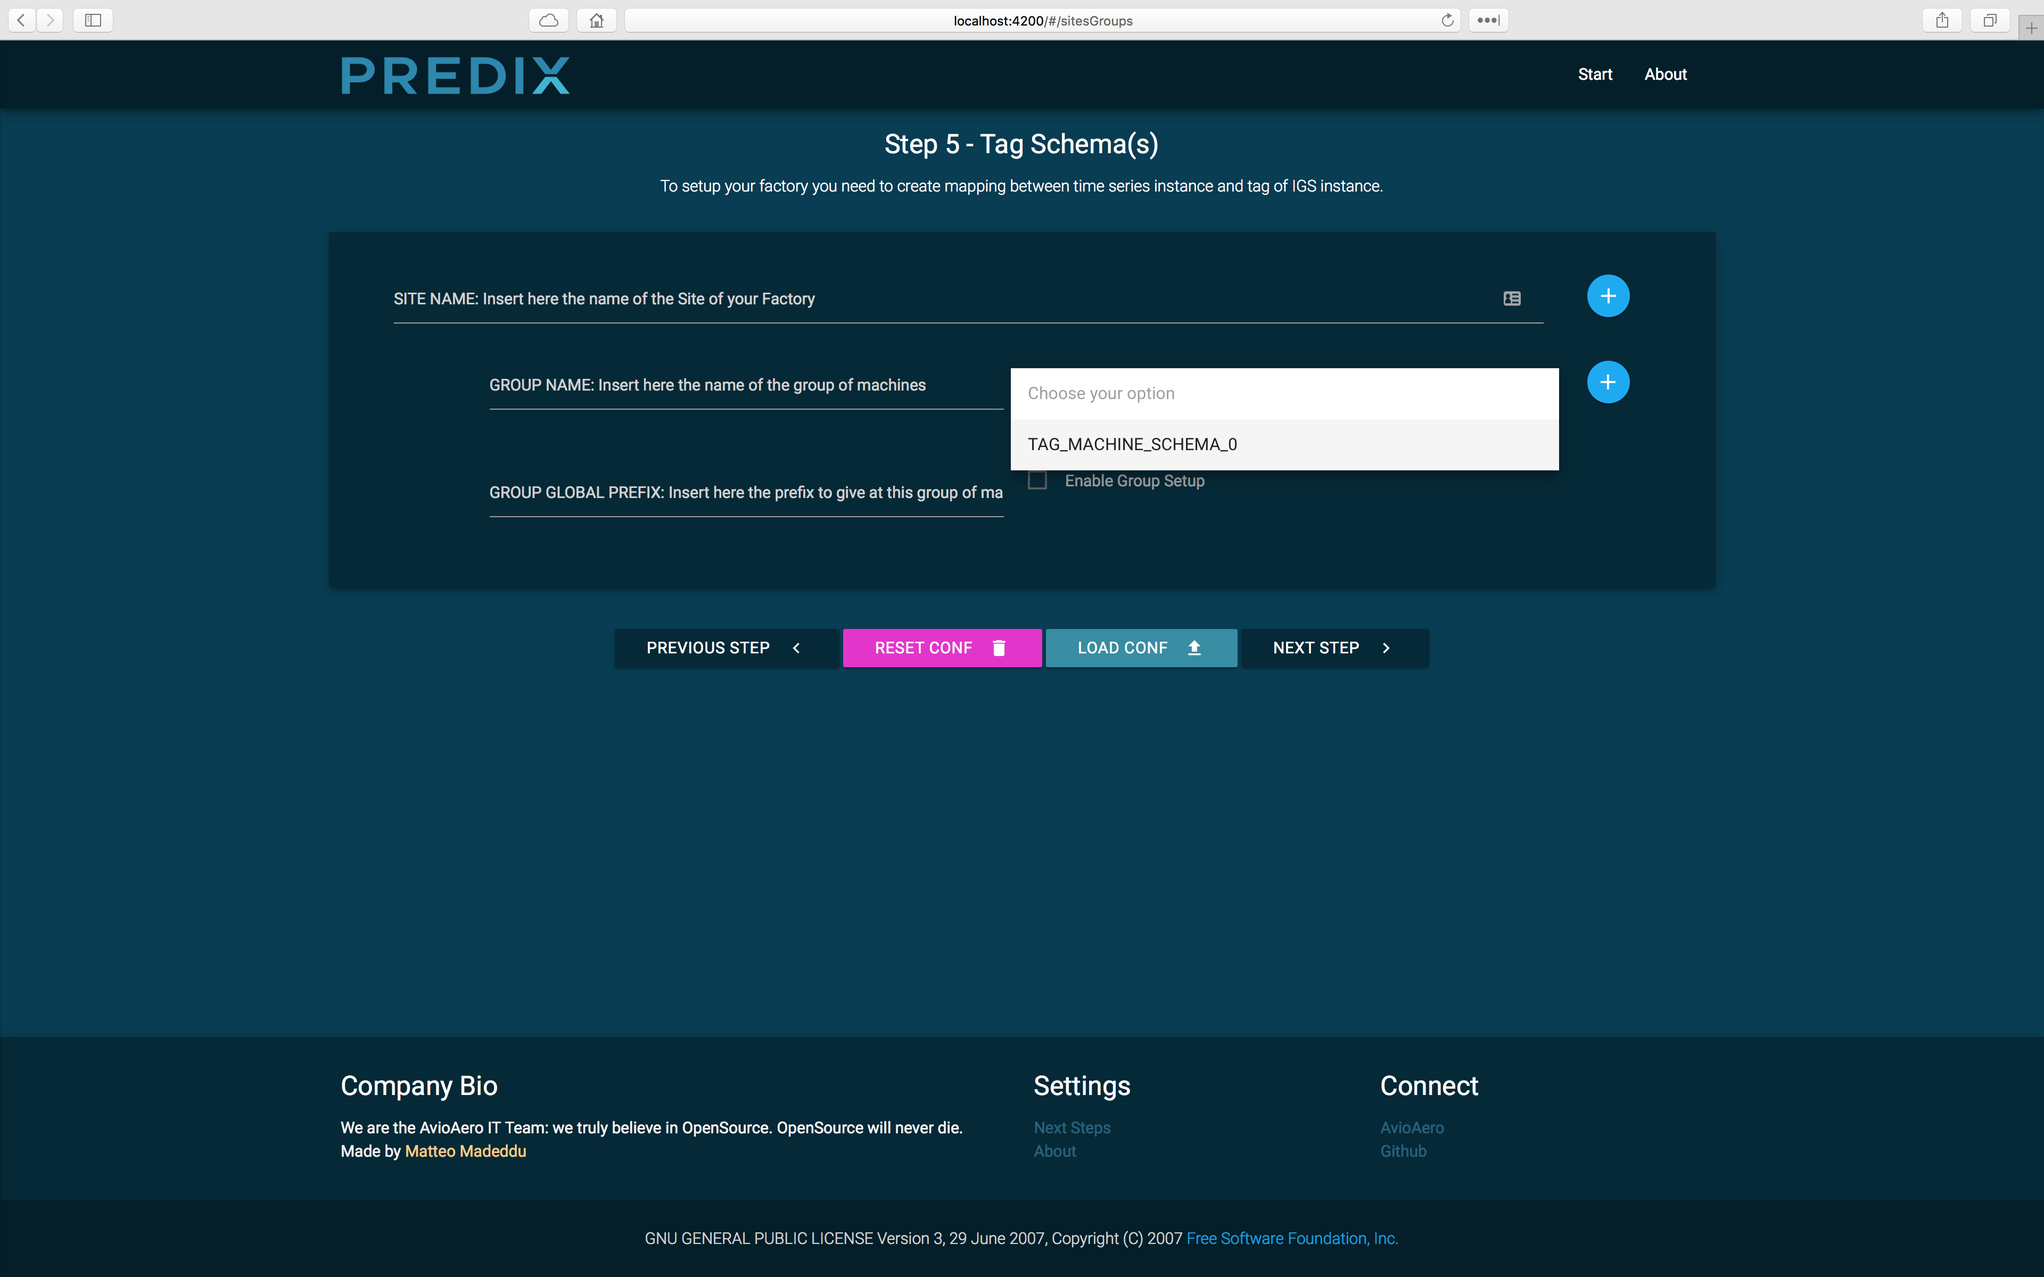
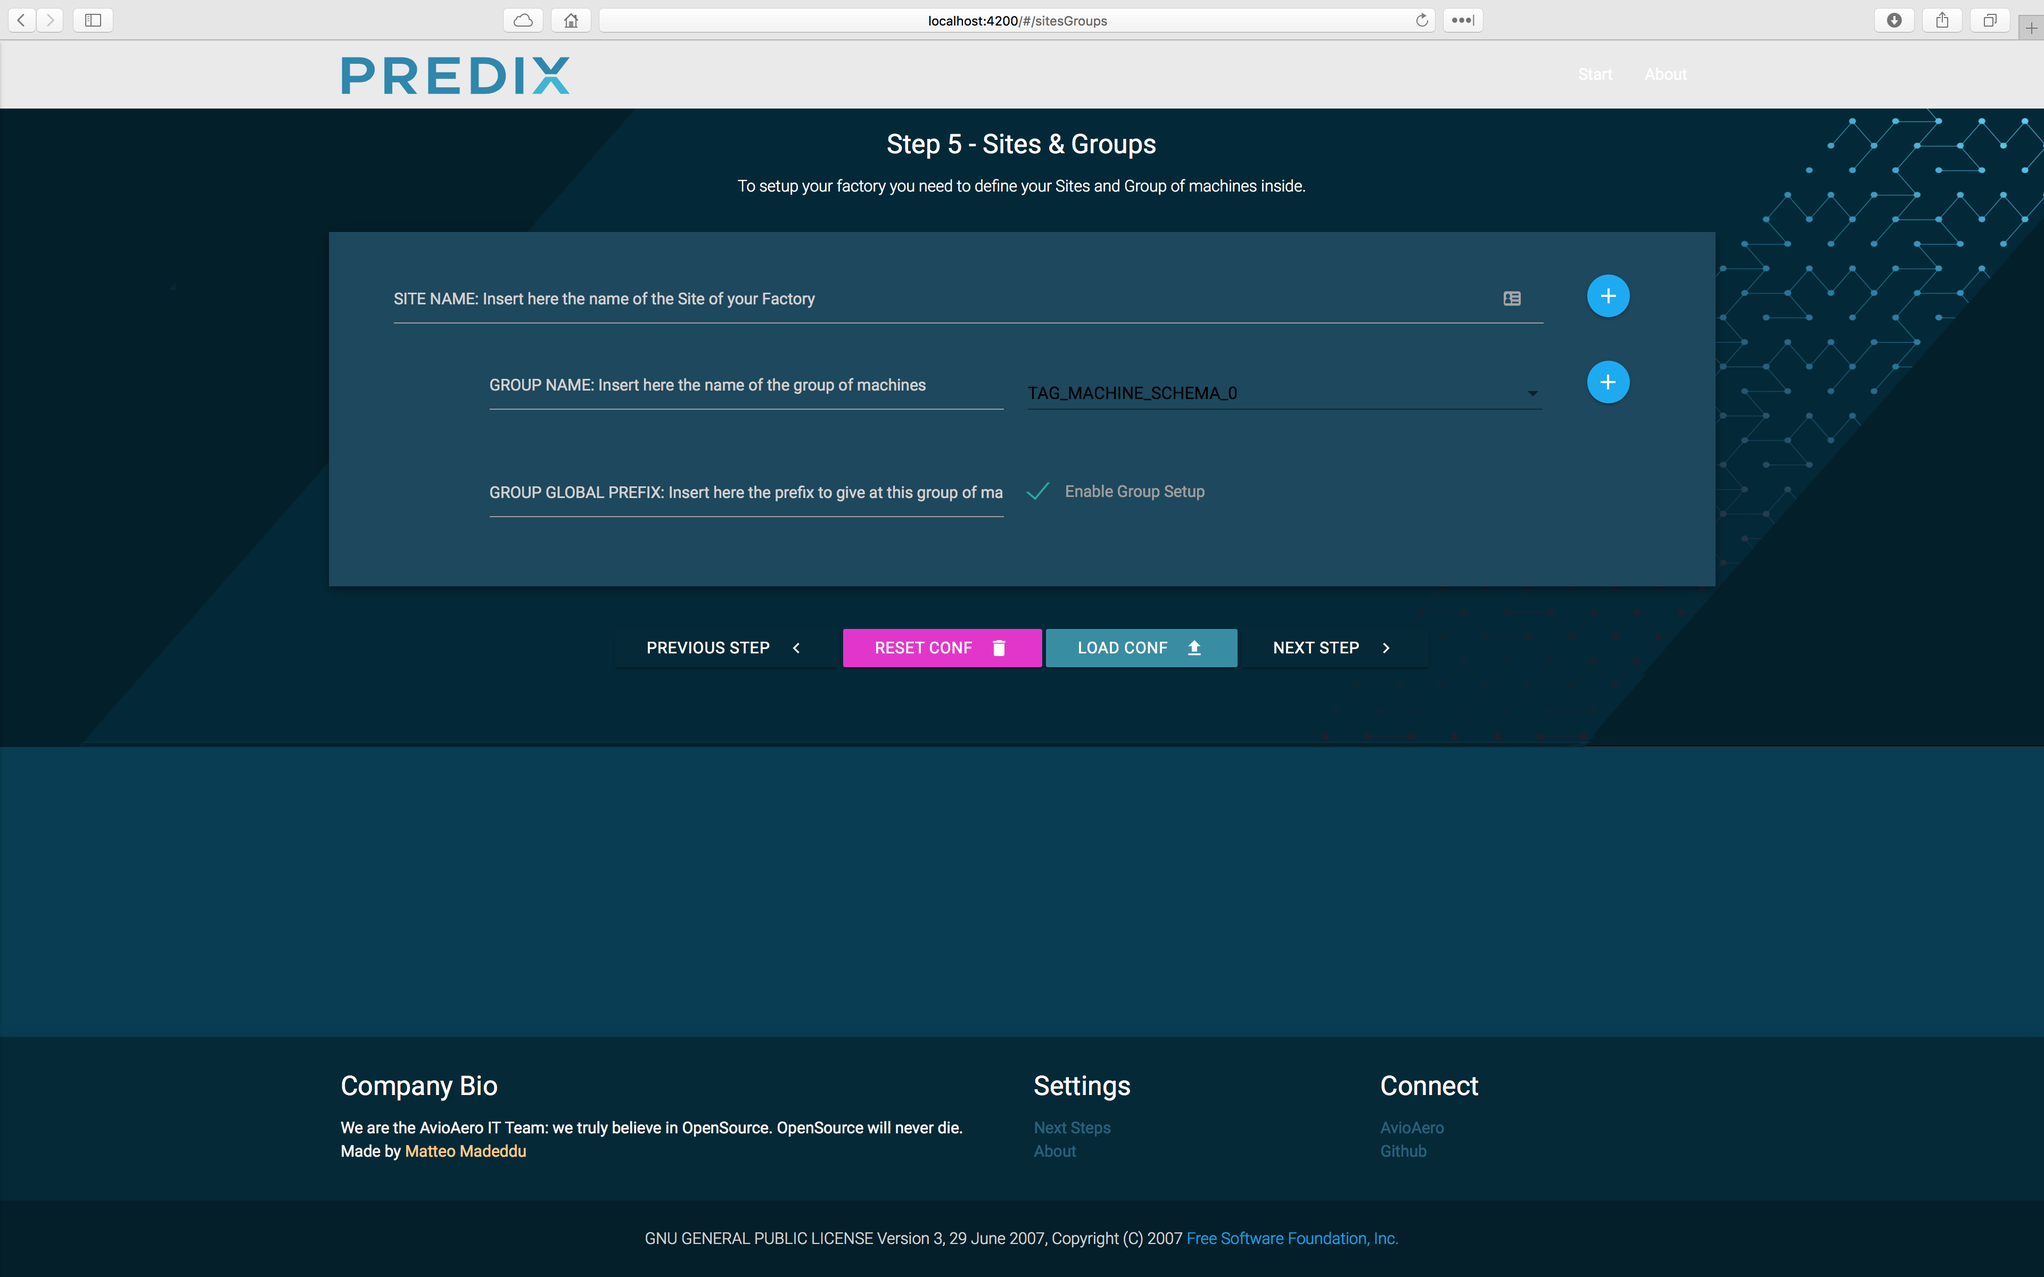
Final Release v1.0

diff --git a/webgui/src/app/groupsMachines/groupsMachines.component.html b/webgui/src/app/groupsMachines/groupsMachines.component.html
@@ -26,6 +26,12 @@
                                        placeholder="MACHINE_IP"
                                        formControlName="machineIp">
                             </div>
+                            <div *ngIf="machinesFormsWrapper.controls.machinesForms.controls.length > 1"
+                                 class="input-field col s1 center-align">
+                                <a class="btn-floating btn-small waves-effect waves-light red"
+                                   name="removeMachineForm" (click)="removeMachineForm(formIndex);"><i
+                                        class="material-icons">delete</i></a>
+                            </div>
                             <div *ngIf="machinesFormsWrapper.controls.machinesForms.controls.length < 2" class="input-field col s1 offset-s2 center-align">
                                 <a class="btn-floating btn-small waves-effect waves-light light-blue"
                                    name="addMachineForm" (click)="addMachineForm();"><i
@@ -35,12 +41,6 @@
                                 <a class="btn-floating btn-small waves-effect waves-light light-blue"
                                    name="addMachineForm" (click)="addMachineForm();"><i
                                         class="material-icons">add</i></a>
-                            </div>
-                            <div *ngIf="machinesFormsWrapper.controls.machinesForms.controls.length > 1"
-                                 class="input-field col s1 center-align">
-                                <a class="btn-floating btn-small waves-effect waves-light red"
-                                   name="removeMachineForm" (click)="removeMachineForm(formIndex);"><i
-                                        class="material-icons">delete</i></a>
                             </div>
                         </div>
                         <div class="row">
@@ -104,8 +104,8 @@
                     (click)="save(machinesForms)">Previous Step
                 <i class="material-icons right">navigate_before</i>
             </button>
-            <button class="btn waves-effect waves-light predix lighten-5" style="margin: 5px auto;" name="reset"
-                    id="reset">Reset Conf
+            <button uiSref="homePage" class="btn waves-effect waves-light predix lighten-5" style="margin: 5px auto;" name="reset"
+                    id="reset" (click)="reset()">Reset Conf
                 <i class="material-icons right">delete</i>
             </button>
             <button class="btn waves-effect waves-light predix lighten-2" style="margin: 5px auto;" name="load"

diff --git a/webgui/src/app/tagMappingSchema/tagMappingSchema.component.html b/webgui/src/app/tagMappingSchema/tagMappingSchema.component.html
@@ -18,10 +18,10 @@
                                 <input class="form-control input-md" name="channelPrefix" type="text" placeholder="CHANNEL_PREFIX: Channel Mapping Prefix" formControlName="channelPrefix">
                             </div>
                             <div class="input-field col s1 center-align">
-                                <a class="btn-floating btn-small waves-effect waves-light light-blue" name="addTagCouple" (click)="addNewTagMappingSchema();"><i class="material-icons">add</i></a>
+                                <a class="btn-floating btn-small waves-effect waves-light red" name="removeTagCouple" (click)="removeNewTagMappingSchema(formIndex);"><i class="material-icons">delete</i></a>
                             </div>
                             <div class="input-field col s1 center-align">
-                                <a class="btn-floating btn-small waves-effect waves-light red" name="removeTagCouple" (click)="removeNewTagMappingSchema(formIndex);"><i class="material-icons">delete</i></a>
+                                <a class="btn-floating btn-small waves-effect waves-light light-blue" name="addTagCouple" (click)="addNewTagMappingSchema();"><i class="material-icons">add</i></a>
                             </div>
                         </div>
                         <div *ngIf="tagMappingSchemaWrapper.controls.tagMappingSchemaForms.controls.length <= 1">
@@ -77,7 +77,7 @@
             <button uiSref="predixCloudConfig" class="btn waves-effect waves-light predix darken-2" (click)="save(tagMappingSchemaForms)">Previous Step
                 <i class="material-icons right">navigate_before</i>
             </button>
-            <button class="btn waves-effect waves-light predix lighten-5" style="margin: 5px auto;" name="reset" id="reset">Reset Conf
+            <button uiSref="homePage" class="btn waves-effect waves-light predix lighten-5" style="margin: 5px auto;" name="reset" id="reset" (click)="reset()">Reset Conf
                 <i class="material-icons right">delete</i>
             </button>
             <button class="btn waves-effect waves-light predix lighten-2" style="margin: 5px auto;" name="load" id="load">Load Conf

diff --git a/webgui/src/app/sitesGroups/sitesGroups.component.html b/webgui/src/app/sitesGroups/sitesGroups.component.html
@@ -17,14 +17,14 @@
                                        formControlName="siteName">
                             </div>
                             <div class="input-field col s1 center-align">
-                                <a class="btn-floating btn-small waves-effect waves-light light-blue"
-                                   name="addSiteGroupsForm" (click)="addSiteGroupsForm();"><i
-                                        class="material-icons">add</i></a>
-                            </div>
-                            <div class="input-field col s1 center-align">
                                 <a class="btn-floating btn-small waves-effect waves-light red"
                                    name="removeSiteGroupsForm" (click)="removeSiteGroupsForm(formIndex);"><i
                                         class="material-icons">delete</i></a>
+                            </div>
+                            <div class="input-field col s1 center-align">
+                                <a class="btn-floating btn-small waves-effect waves-light light-blue"
+                                   name="addSiteGroupsForm" (click)="addSiteGroupsForm();"><i
+                                        class="material-icons">add</i></a>
                             </div>
                         </div>
                         <div *ngIf="sitesGroupsWrapper.controls.sitesGroupsForms.controls.length <= 1">
@@ -113,8 +113,8 @@
                     (click)="save(sitesGroupsForms)">Previous Step
                 <i class="material-icons right">navigate_before</i>
             </button>
-            <button class="btn waves-effect waves-light predix lighten-5" style="margin: 5px auto;" name="reset"
-                    id="reset">Reset Conf
+            <button uiSref="homePage" class="btn waves-effect waves-light predix lighten-5" style="margin: 5px auto;" name="reset"
+                    id="reset" (click)="reset()">Reset Conf
                 <i class="material-icons right">delete</i>
             </button>
             <button class="btn waves-effect waves-light predix lighten-2" style="margin: 5px auto;" name="load"

diff --git a/webgui/src/app/app.component.html b/webgui/src/app/app.component.html
@@ -12,23 +12,23 @@
             <!-- End Content Area -->
         </div>
         <!-- For Debugging: show our valid formData -->
-        <div class="row">
-            <form class="col s12">
-                <div class="row">
-                    <div class="col s12 center">
-                        <h5 class="center">JSON Predix Configuration Preview</h5>
-                        <p class="light center">The following textarea contains preview of JSON created by
-                            configurator</p>
-                        <br>
-                    </div>
-                    <div class="input-field col s12"
-                         style="background-color: #F1F1F1; border: none; border: 1px solid #c7c7c7; border-radius: 0;">
-                        <textarea id="textarea1" class="materialize-textarea black-text"
-                                  style="min-height: 200px; overflow: scroll;">{{ predixConfigurationData | json }}</textarea>
-                    </div>
-                </div>
-            </form>
-        </div>
+        <!--<div class="row">-->
+            <!--<form class="col s12">-->
+                <!--<div class="row">-->
+                    <!--<div class="col s12 center">-->
+                        <!--<h5 class="center">JSON Predix Configuration Preview</h5>-->
+                        <!--<p class="light center">The following textarea contains preview of JSON created by-->
+                            <!--configurator</p>-->
+                        <!--<br>-->
+                    <!--</div>-->
+                    <!--<div class="input-field col s12"-->
+                         <!--style="background-color: #F1F1F1; border: none; border: 1px solid #c7c7c7; border-radius: 0;">-->
+                        <!--<textarea id="textarea1" class="materialize-textarea black-text"-->
+                                  <!--style="min-height: 200px; overflow: scroll;">{{ predixConfigurationData | json }}</textarea>-->
+                    <!--</div>-->
+                <!--</div>-->
+            <!--</form>-->
+        <!--</div>-->
     </div>
 </section>
 

diff --git a/webgui/src/app/data/predixConfigurationData.service.ts b/webgui/src/app/data/predixConfigurationData.service.ts
@@ -16,6 +16,7 @@ export class PredixConfigurationDataService {
     private isPredixCloudConfigValid:   boolean = false;
     private isTagMappingSchemaValid:    boolean = false;
     private isSitesGroupsValid:         boolean = false;
+    private isGroupsMachinesValid:      boolean = false;
 
     constructor(private workflowService: WorkflowService) {
         
@@ -180,6 +181,8 @@ export class PredixConfigurationDataService {
     setMachine(machinePlate: string, machine: Machine, site: string, group: string) {
         
         this.predixConfigurationData.SITES[site][group]['MACHINES'][machinePlate] = machine;
+    
+        this.workflowService.validateStep(STEPS.groupsMachines);
         
     }
     
@@ -243,6 +246,10 @@ export class PredixConfigurationDataService {
         return this.predixConfigurationData;
     }
     
+    setPredixConfigurationData(data : PredixConfigurationData) {
+        this.predixConfigurationData = data;
+    }
+    
     resetPredixConfigurationData(): PredixConfigurationData {
 
         // Reset the workflow
@@ -250,7 +257,7 @@ export class PredixConfigurationDataService {
 
         // Return the form data after all this.* members had been reset
         this.predixConfigurationData.clear();
-        this.isIgsConfigValid = this.isPredixGlobalConfigValid = this.isTagMappingSchemaValid = this.isSitesGroupsValid = false;
+        this.isIgsConfigValid = this.isPredixGlobalConfigValid = this.isTagMappingSchemaValid = this.isSitesGroupsValid = this.isGroupsMachinesValid = false;
 
         return this.predixConfigurationData;
     }
@@ -258,7 +265,7 @@ export class PredixConfigurationDataService {
     isPredixConfigurationDataValid() {
 
         // Return true if all forms had been validated successfully; otherwise, return false
-        return this.isIgsConfigValid && this.isPredixGlobalConfigValid && this.isTagMappingSchemaValid && this.isSitesGroupsValid;
+        return this.isIgsConfigValid && this.isPredixGlobalConfigValid && this.isTagMappingSchemaValid && this.isSitesGroupsValid && this.isGroupsMachinesValid;
 
     }
 

diff --git a/webgui/src/app/result/result.component.html b/webgui/src/app/result/result.component.html
@@ -16,10 +16,10 @@
                             configurator</p>
                         <br>
                     </div>
-                    <div class="input-field col s12"
-                         style="background-color: #F1F1F1; border: none; border: 1px solid #c7c7c7; border-radius: 0;">
+                    <div class="input-field col s12" class="z-depth-3 predix darken-4" style="padding: 25px 50px;">
+                         <!--style="background-color: #F1F1F1; border: none; border: 1px solid #c7c7c7; border-radius: 0;">-->
                         <textarea id="textarea1" class="materialize-textarea black-text"
-                                  style="min-height: 200px; overflow: scroll;">{{ predixConfigurationData | json }}</textarea>
+                                  style="font-family: 'Courier'; font-size: 14px; min-height: 400px; overflow: scroll;">{{ predixConfigurationData | json }}</textarea>
                     </div>
                 </div>
             </form>
@@ -32,8 +32,8 @@
                     (click)="save(predixConfigurationData)">Previous Step
                 <i class="material-icons right">navigate_before</i>
             </button>
-            <button class="btn waves-effect waves-light predix lighten-5" style="margin: 5px auto;" name="reset"
-                    id="reset">Reset Conf
+            <button uiSref="homePage" class="btn waves-effect waves-light predix lighten-5" style="margin: 5px auto;" name="reset"
+                    id="reset" (click)="reset()">Reset Conf
                 <i class="material-icons right">delete</i>
             </button>
             <button class="btn waves-effect waves-light predix lighten-2" style="margin: 5px auto;" name="load"

diff --git a/webgui/src/app/predixGlobalConfig/predixGlobalConfig.component.html b/webgui/src/app/predixGlobalConfig/predixGlobalConfig.component.html
@@ -40,7 +40,7 @@
                     <button uiSref="igsConfig"         class="btn waves-effect waves-light predix darken-2" (click)="save(predixGlobalConfigForm)">Previous Step
                         <i class="material-icons right">navigate_before</i>
                     </button>
-                    <button class="btn waves-effect waves-light predix lighten-5" style="margin: 5px auto;" name="reset" id="reset">Reset Conf
+                    <button uiSref="homePage" class="btn waves-effect waves-light predix lighten-5" style="margin: 5px auto;" name="reset" id="reset" (click)="reset()">Reset Conf
                         <i class="material-icons right">delete</i>
                     </button>
                     <button class="btn waves-effect waves-light predix lighten-2" style="margin: 5px auto;" name="load" id="load" (click)="predixGlobalConfig.setDefault();">Load Conf

diff --git a/webgui/src/app/predixCloudConfig/predixCloudConfig.component.html b/webgui/src/app/predixCloudConfig/predixCloudConfig.component.html
@@ -50,7 +50,7 @@
                     <button uiSref="predixGlobalConfig" class="btn waves-effect waves-light predix darken-2" (click)="save(predixCloudConfigForm)">Previous Step
                         <i class="material-icons right">navigate_before</i>
                     </button>
-                    <button class="btn waves-effect waves-light predix lighten-5" style="margin: 5px auto;" name="reset" id="reset">Reset Conf
+                    <button uiSref="homePage" class="btn waves-effect waves-light predix lighten-5" style="margin: 5px auto;" name="reset" id="reset" (click)="reset()">Reset Conf
                         <i class="material-icons right">delete</i>
                     </button>
                     <button class="btn waves-effect waves-light predix lighten-2" style="margin: 5px auto;" name="load" id="load" (click)="predixCloudConfig.setDefault();">Load Conf

diff --git a/webgui/src/app/igsConfig/igsConfig.component.html b/webgui/src/app/igsConfig/igsConfig.component.html
@@ -28,7 +28,7 @@
                     <button uiSref="homePage" class="btn waves-effect waves-light predix darken-2" (click)="save(igsConfigForm)">Welcome Page
                         <i class="material-icons right">home</i>
                     </button>
-                    <button class="btn waves-effect waves-light predix lighten-5" style="margin: 5px auto;" name="reset" id="reset">Reset Conf
+                    <button uiSref="homePage" class="btn waves-effect waves-light predix lighten-5" style="margin: 5px auto;" name="reset" id="reset" (click)="reset()">Reset Conf
                         <i class="material-icons right">delete</i>
                     </button>
                     <button class="btn waves-effect waves-light predix lighten-3" style="margin: 5px auto;" name="load" id="load" (click)="igsConfig.setDefault();">Load Conf

diff --git a/webgui/src/app/sitesGroups/sitesGroups.component.ts b/webgui/src/app/sitesGroups/sitesGroups.component.ts
@@ -78,7 +78,7 @@ export class SitesGroupsComponent implements OnInit { //AfterViewInit, AfterView
     initGroupForm(gn? : string, gtms?: string, gp?: string, ges?: boolean) {
     
         let gnr   = [''];
-        let gtmsr = [''];
+        let gtmsr = [this.tagMappingSchemas[0]];
         let gpr   = [''];
         let gesr  = new FormControl(true);
         if(gn)   { gnr = [gn]; }
@@ -271,6 +271,12 @@ export class SitesGroupsComponent implements OnInit { //AfterViewInit, AfterView
         console.log(this.sitesGroups);
         
         this.predixConfigurationDataService.setSitesGroups(this.sitesGroups);
+        
+    }
+    
+    reset() {
+        
+        this.predixConfigurationDataService.setPredixConfigurationData(this.predixConfigurationDataService.resetPredixConfigurationData());
         
     }
     

diff --git a/webgui/src/app/result/result.component.ts b/webgui/src/app/result/result.component.ts
@@ -22,7 +22,14 @@ export class ResultComponent implements OnInit {
     
     submit() {
         alert('Excellent Job!');
-        this.predixConfigurationData = this.predixConfigurationDataService.resetPredixConfigurationData();
+        this.predixConfigurationData = this.predixConfigurationDataService.setPredixConfigurationData(this.predixConfigurationDataService.resetPredixConfigurationData());
         this.isPredixConfigurationDataValid = false;
     }
+    
+    reset() {
+        
+        this.predixConfigurationDataService.setPredixConfigurationData(this.predixConfigurationDataService.resetPredixConfigurationData());
+        
+    }
+    
 }

diff --git a/webgui/src/app/predixGlobalConfig/predixGlobalConfig.component.ts b/webgui/src/app/predixGlobalConfig/predixGlobalConfig.component.ts
@@ -28,5 +28,11 @@ export class PredixGlobalConfigComponent implements OnInit {
             return;
         this.predixConfigurationDataService.setPredixGlobalConfig(this.predixGlobalConfig);
     }
-
+    
+    reset() {
+        
+        this.predixConfigurationDataService.setPredixConfigurationData(this.predixConfigurationDataService.resetPredixConfigurationData());
+        
+    }
+    
 }
